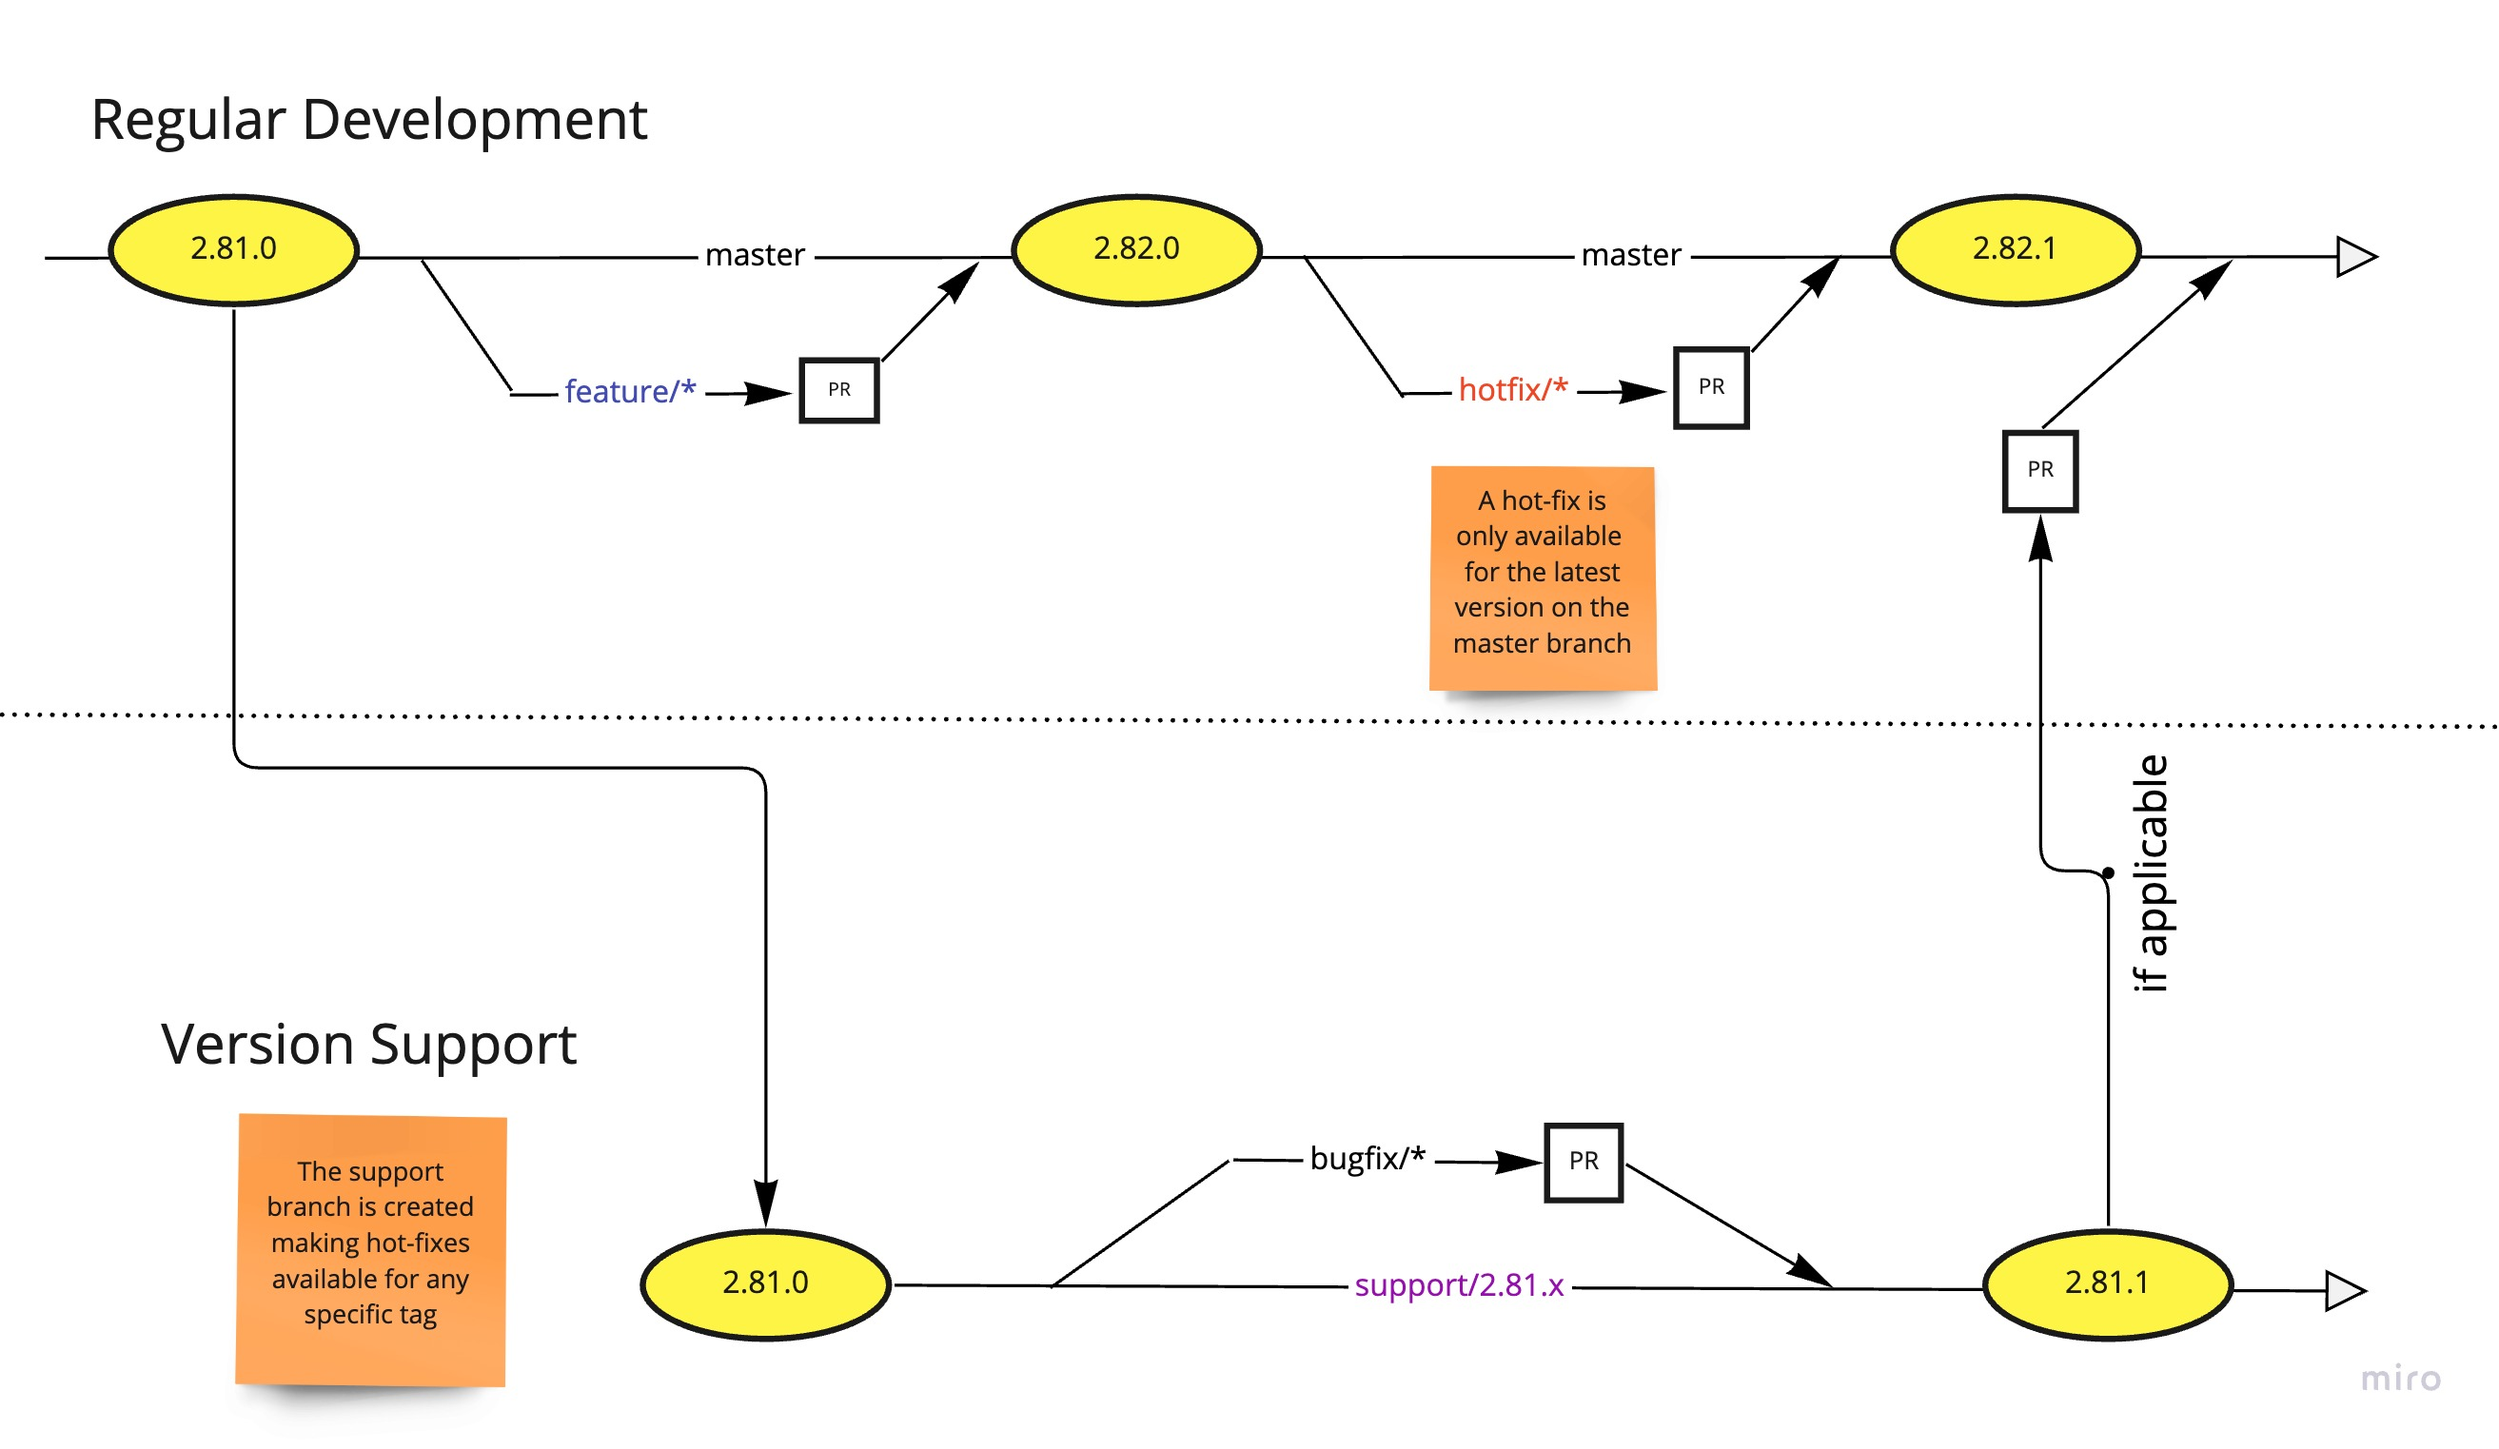
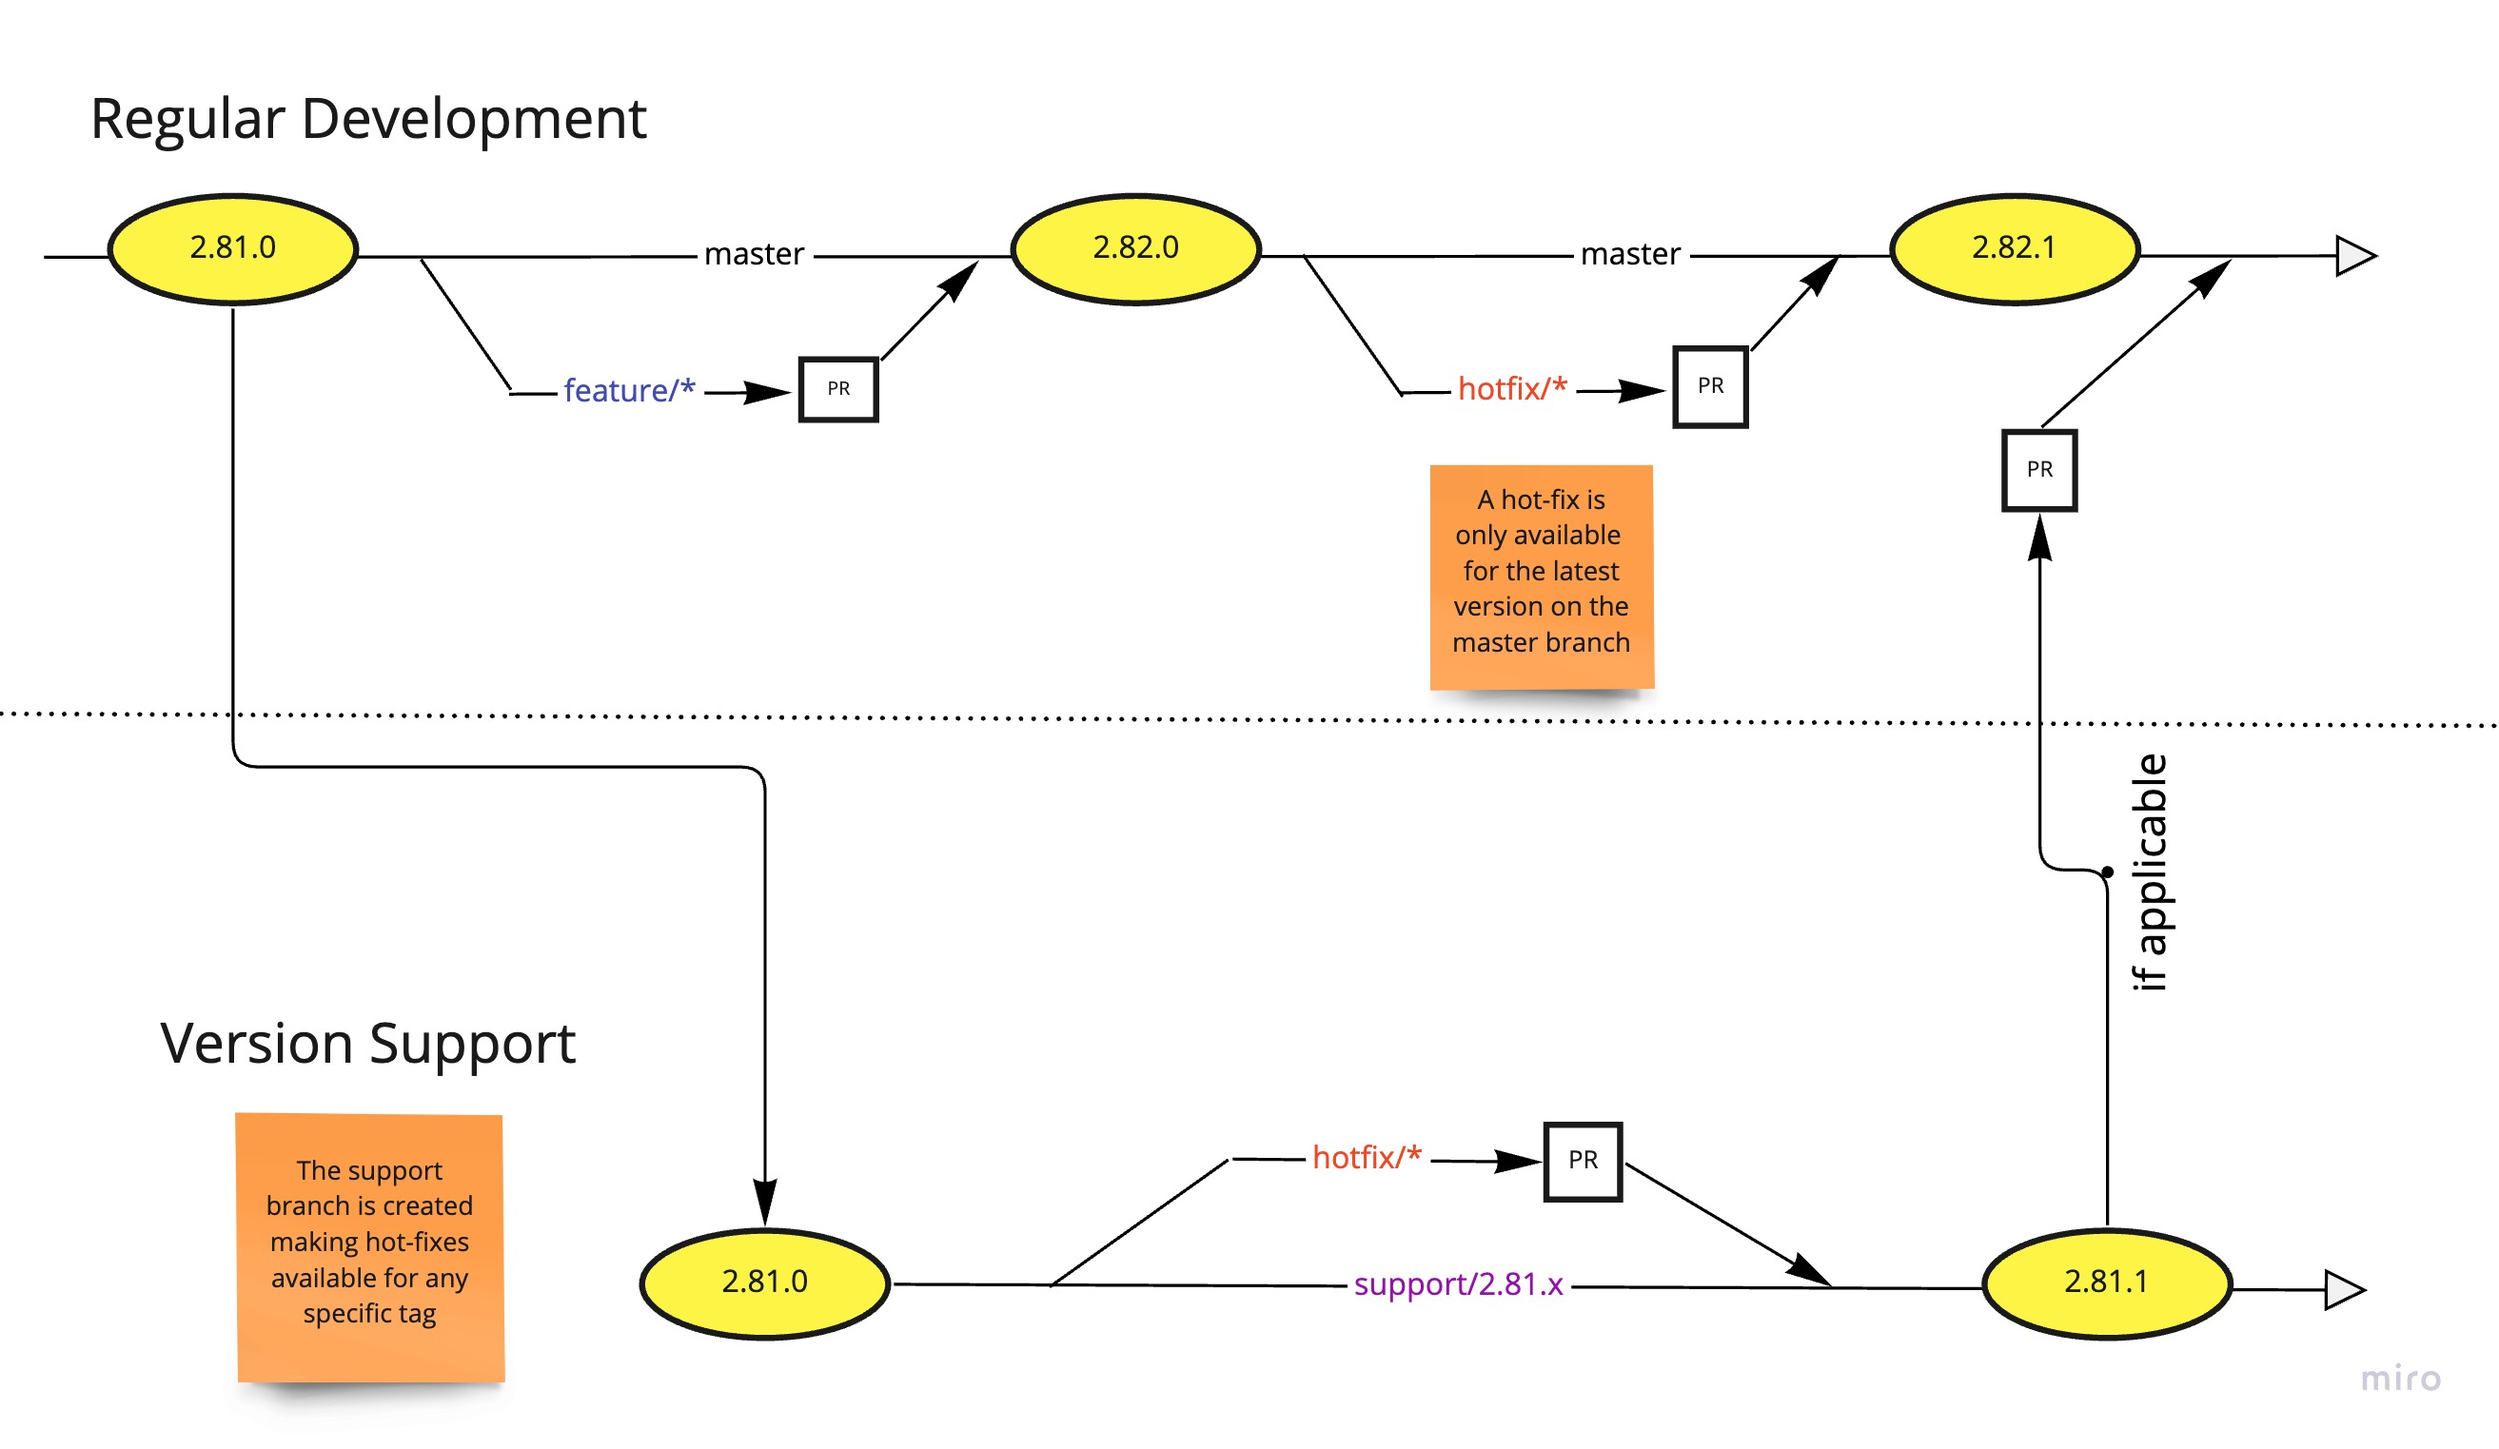
[skip bump] Updating documentation

diff --git a/CONTRIBUTING.md b/CONTRIBUTING.md
@@ -9,6 +9,6 @@ You are welcome to provide bug fixes and new features in the form of pull reques
 - Together with your changes, submit updated [CHANGELOG.md](CHANGELOG.md) in your PR using the next desired version as reference.
 - After your pull request gets approved and integrated, then **GitHub actions will bump** the `MINOR` version and deploy it to Backbase maven repository. *(e.g. 2.45.0 -> 2.46.0)*
     * For small fixes and patches utilize the `hotfix/` branch prefix, so once it is integrated the pipelines will automatically bump the `PATCH` version instead of the `MINOR`. *(e.g. 2.46.0 -> 2.46.1)*
-
+    * Always use `hotfix/` branches for creating PRs to [`support/` branches](https://gitversion.net/docs/learn/branching-strategies/gitflow/examples#support-branches).
 ### Branching Strategy Flow
 ![Branching Strategy](docs/branching_strategy.jpg)
